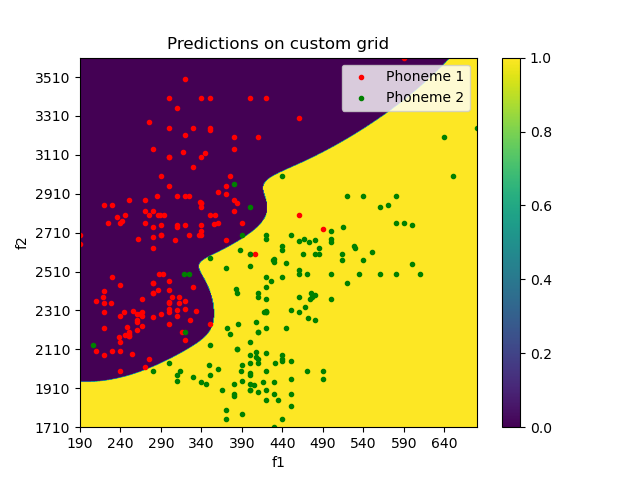
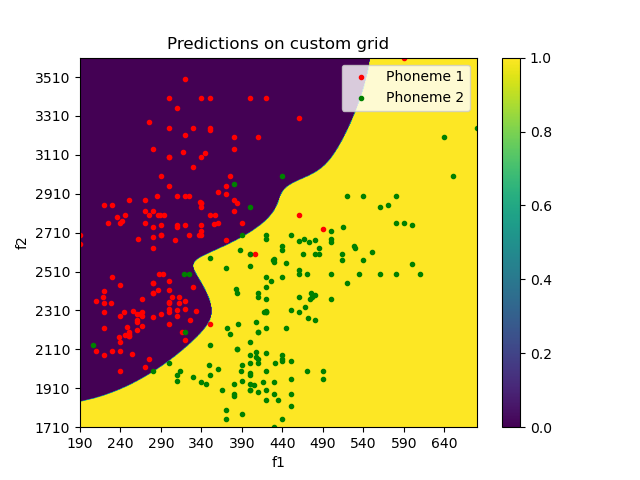
modified the task 3

diff --git a/assign_2/task_3.py b/assign_2/task_3.py
@@ -124,13 +124,19 @@ A1 = 0
 B1 = 0
 
 for i in range(int(X.shape[0]/2)):
-    # if np.sum(Z1[i])>np.sum(Z2[i]):
-    if np.sum(Z3[i]) > np.sum(Z4[i]):
-        A1 += 1
+    if k ==3:
+        if np.sum(Z1[i]) > np.sum(Z2[i]):
+            A1 += 1
+    if k ==6:
+        if np.sum(Z3[i]) > np.sum(Z4[i]):
+            A1 += 1
 for i in range(int(X.shape[0]/2),int(X.shape[0])):
-    # if np.sum(Z2[i])>np.sum(Z1[i]):
-    if np.sum(Z4[i]) > np.sum(Z3[i]):
-        B1 += 1
+    if k == 3:
+        if np.sum(Z2[i]) > np.sum(Z1[i]):
+            B1 += 1
+    if k == 6:
+        if np.sum(Z4[i]) > np.sum(Z3[i]):
+            B1 += 1
 
 accuracy = ((A1+B1)/X.shape[0])*100
 ########################################/
